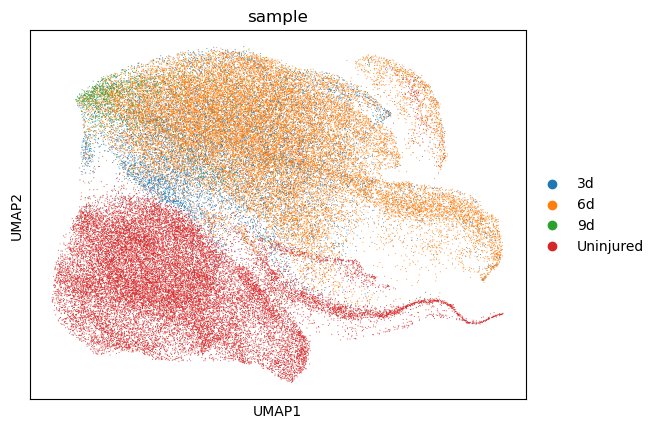
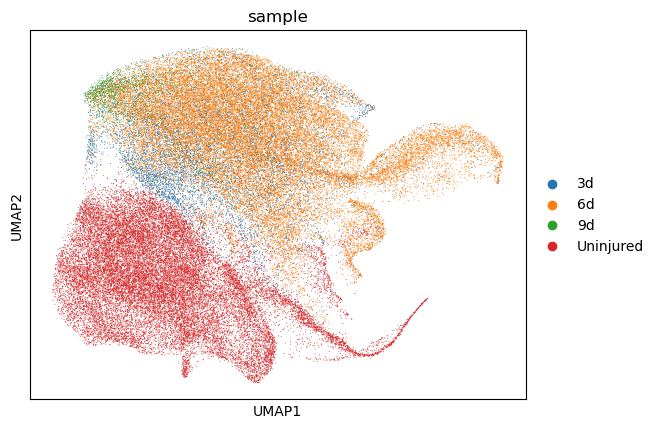
add more plots in analyse - more plots in README and cluster

Changed region(s): [[0.0607, 0.0909, 0.7891, 0.9091]]

diff --git a/src/analyze.py b/src/analyze.py
@@ -1,5 +1,6 @@
 import scanpy as sc
 import argparse
+import os
 
 
 def main():
@@ -16,6 +17,8 @@ def main():
     adata = sc.read_h5ad(args.input).copy()
 
     print(f"[LOAD] {adata.n_obs} cells × {adata.n_vars} genes")
+
+    os.makedirs("figures", exist_ok=True)
 
     # -------------------------
     # KEEP RAW COUNTS
@@ -34,7 +37,7 @@ def main():
     print(f"[HVG] {adata.var['highly_variable'].sum()} genes selected")
 
     # -------------------------
-    # PCA ON HVGs ONLY (CORRECT WAY)
+    # PCA ON HVGs ONLY
     # -------------------------
     adata_pca = adata[:, adata.var["highly_variable"]].copy()
 
@@ -44,38 +47,40 @@ def main():
         svd_solver="arpack"
     )
 
-    # store back into original object
     adata.obsm["X_pca"] = adata_pca.obsm["X_pca"]
 
-    print("[PCA] done on HVGs")
+    print("[PCA] done")
 
     # -------------------------
-    # NEIGHBORS GRAPH
+    # NEIGHBORS + UMAP
     # -------------------------
-    sc.pp.neighbors(
-        adata,
-        use_rep="X_pca"
-    )
-
-    # -------------------------
-    # UMAP
-    # -------------------------
-    sc.tl.umap(
-        adata,
-        random_state=42
-    )
+    sc.pp.neighbors(adata, use_rep="X_pca")
+    sc.tl.umap(adata)
 
     print("[UMAP] done")
 
     # -------------------------
-    # PLOTS
+    # GLOBAL UMAP
     # -------------------------
     sc.pl.umap(
         adata,
-        color=["sample"],
-        save=f"_{args.prefix}_umap.png",
-        show=False
+        color="sample",
+        show=False,
+        save=f"_{args.prefix}_umap.png"
     )
+
+    # -------------------------
+    # PER-SAMPLE UMAP
+    # -------------------------
+    for s in adata.obs["sample"].unique():
+
+        sc.pl.umap(
+            adata[adata.obs["sample"] == s],
+            color="sample",
+            title=f"Sample: {s}",
+            show=False,
+            save=f"_{args.prefix}_umap_{s}.png"
+        )
 
     # -------------------------
     # SAVE OBJECT

diff --git a/src/cluster.py b/src/cluster.py
@@ -1,0 +1,40 @@
+import scanpy as sc
+import argparse
+
+parser = argparse.ArgumentParser()
+parser.add_argument("--input", required=True)
+parser.add_argument("--output", required=True)
+parser.add_argument("--prefix", required=True)
+args = parser.parse_args()
+
+adata = sc.read(args.input)
+
+# Leiden clustering
+sc.tl.leiden(adata, resolution=2.5)
+
+# UMAP (Leiden only)
+sc.pl.umap(
+    adata,
+    color="leiden",
+    legend_loc="on data",
+    save=f"_{args.prefix}_leiden.png"
+)
+
+# QC per Leiden (fix: no figsize inside violin)
+qc_metrics = ["n_genes_by_counts", "total_counts", "pct_counts_mt"]
+
+for qc in qc_metrics:
+    if qc in adata.obs:
+        sc.pl.violin(
+            adata,
+            keys=qc,
+            groupby="leiden",
+            rotation=90,
+            stripplot=False,
+            jitter=0.2,
+            order=sorted(adata.obs["leiden"].unique()),
+            show=False,
+            save=f"_{args.prefix}_QC_{qc}.png"
+        )
+
+adata.write(args.output, compression="gzip")
